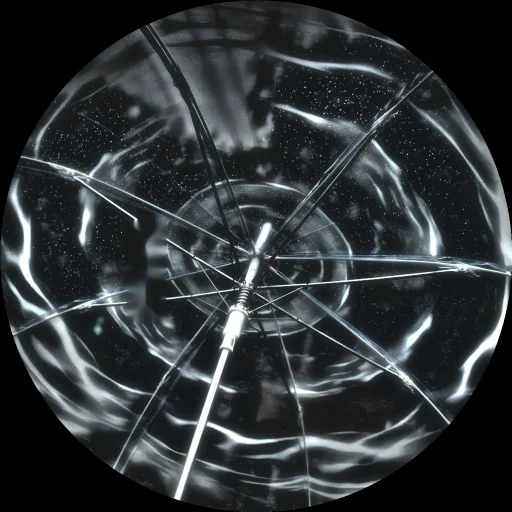
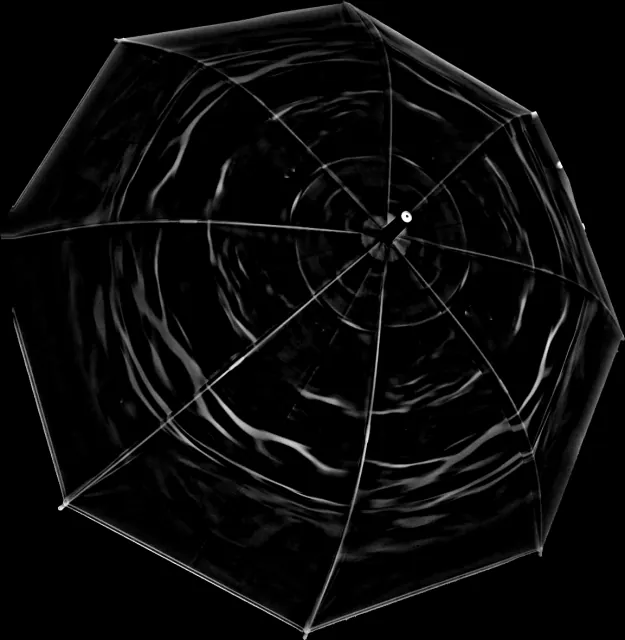
伞下烟火重做：海边黄昏底图、真实八角透明金鱼伞（抠图）、五颜六色的烟花和海面倒影
- 底图换成黄昏海边照片（裁掉截图的状态栏和看图工具栏）
- 伞是从透明金鱼伞照片里直接抠的八角伞形（不再是圆的），伞面的水纹会流动；6 条金鱼抠出来在伞面上游
- 人的背影从花火照片里抠出来（只要人，不带水印）
- 烟花：一开始没有 → 忽然一个 → 又一个 → 一下子很多 → 之后一直放，隔一阵来一波；牡丹、菊花、柳叶、环、彩色、分裂、闪光、爱心、棕榈，五颜六色，倒映在海面上
- 点天空放烟花；点伞起水波、金鱼游开、伞晃一下
- 去掉上一版用的花火照片素材

Claude-Session: https://claude.ai/code/session_01TSyEwZEwvoN7y1zL8fqiLP

diff --git a/lockfx-umb.js b/lockfx-umb.js
@@ -1,184 +1,218 @@
-// 小手机 · 动态锁屏「伞下烟火」：用的是你给的三张图——
-//   底图：花火大会的照片（原来那把纸伞换成透明的金鱼伞，往后撑着挡住头和上半身）；
-//   伞面：透明金鱼伞照片里的水纹、伞骨、伞柄；金鱼和挂件从照片里抠出来，单独会动。
-// 天上一开始是黑的，过几秒照片里的烟花一朵一朵炸开，最后满天烟花 + 地面瀑布焰火（就是原照片的样子）。
-// 动效：水纹上的光沿着漩涡一圈圈流过去（水在流）、金鱼在伞面上游、挂件小金鱼轻轻晃。
-// 互动：点天空 → 那里放一朵烟花；点伞面 → 水波荡开、金鱼吓得游开；点挂件 → 晃起来；歪手机挂件也跟着晃。
+// 小手机 · 动态锁屏「伞下烟火」：黄昏的海边，一个人背对着镜头，把透明金鱼伞往后撑在肩上（挡住头和上半身），看海上的烟花。
+// 素材都是照片抠出来的：海边黄昏（底图）、透明金鱼伞（伞面 + 6 条金鱼）、人的背影；烟花是五颜六色的粒子，倒映在海面上。
+// 节奏：一开始没有烟花 → 忽然放了一个 → 又一个 → 接着很多一起放，之后一直放，隔一阵来一波高潮。
+// 动效：光沿着伞面的水纹流动；金鱼在伞面上游；烟花亮的时候天、海、伞都被照亮。
+// 互动：点天空 → 那里放一朵；点伞 → 水波荡开、金鱼吓得游开、伞晃一下；歪手机伞也会跟着轻轻晃。
 const TAU = Math.PI * 2, rnd = (a, b) => a + Math.random() * (b - a), clamp = (x, a = 0, b = 1) => Math.max(a, Math.min(b, x)), lerp = (a, b, t) => a + (b - a) * t;
 const ss = (a, b, x) => { x = clamp((x - a) / (b - a)); return x * x * (3 - 2 * x); };
 const cnv = (w, h) => Object.assign(document.createElement('canvas'), { width: Math.max(1, Math.ceil(w)), height: Math.max(1, Math.ceil(h)) });
-const dot = (r, col) => { const c = cnv(r * 2, r * 2), x = c.getContext('2d'), g = x.createRadialGradient(r, r, 0, r, r, r); g.addColorStop(0, col); g.addColorStop(1, 'rgba(0,0,0,0)'); x.fillStyle = g; x.fillRect(0, 0, r * 2, r * 2); return c; };
+const rgba = (hex, a) => { const n = parseInt(hex.slice(1), 16); return `rgba(${n >> 16},${n >> 8 & 255},${n & 255},${a})`; };
+const dot = (r, col, core = 0) => { const c = cnv(r * 2, r * 2), x = c.getContext('2d'), g = x.createRadialGradient(r, r, 0, r, r, r); core && g.addColorStop(0, rgba('#ffffff', 1)); g.addColorStop(core, rgba(col, 1)); g.addColorStop(Math.min(1, core + .3), rgba(col, .45)); g.addColorStop(1, rgba(col, 0)); x.fillStyle = g; x.fillRect(0, 0, r * 2, r * 2); return c; };
 const angD = (a, b) => { let d = (b - a) % TAU; d > Math.PI && (d -= TAU); d < -Math.PI && (d += TAU); return d; };
 
-// 底图坐标（905×1580）：人站在 x=452；新伞的圆心和半径；烟花层从 y=0 开始，地面焰火层从 y=900 开始
-const BW = 905, BH = 1580, PX = 452, DISC = [453, 1060, 255], GY = 900, HZ = 930;
-// 伞面贴图（512，对应照片里半径 510 的圆）：漩涡中心、挂件挂的位置（伞面局部坐标，半径 1）
-const VORT = [.024, -.059], PIVOT = [-.402, -.071];
-// 金鱼贴图（都已转成鱼头朝右）：x, y, w, h；最后一个是挂件小金鱼
-const FISH = [[0, 0, 121, 63], [125, 0, 77, 33], [206, 0, 51, 39], [261, 0, 54, 29], [319, 0, 58, 43], [381, 0, 62, 34]], CHARM = [447, 0, 50, 36];
-// 照片里一朵朵能认出来的烟花（底图坐标 x, y, 半径）：蓝白色带放射线的、金色小菊花、大团的菊花
-// 已经去掉了蓝色烟雾、只留火星，拼在 hanabi_burst.webp 里：图集里的 x, y, 边长, 原来的半径
-const SITES = [[0, 0, 210, 150], [212, 0, 182, 130], [396, 0, 140, 100], [538, 0, 147, 105], [687, 0, 140, 100], [829, 0, 77, 55], [908, 0, 84, 60], [0, 212, 70, 50], [72, 212, 84, 60], [158, 212, 168, 120], [328, 212, 168, 120], [498, 212, 154, 110]];
-const FILES = { bg: 'hanabi_bg.webp', fw: 'hanabi_fw.webp', gnd: 'hanabi_gnd.webp', water: 'hanabi_water.webp', burst: 'hanabi_burst.webp', umb: 'hanabi_umb.webp', fish: 'hanabi_fish.webp' };
+// 底图（1000×1622）：地平线 y=1050；人（300×605）；伞（625×640，伞尖在 388,226）；金鱼贴图（鱼头朝右）
+const SEA = [1000, 1622, 1050], PER = [300, 605], UMB = [625, 640], TIP = [388, 226];
+const FISH = [[0, 0, 67, 36], [71, 0, 65, 24], [140, 0, 57, 42], [201, 0, 74, 40], [279, 0, 77, 41], [360, 0, 74, 30]];
+const FILES = { sea: 'hanabi_sea.webp', person: 'hanabi_person.webp', umb: 'hanabi_umb.webp', water: 'hanabi_water.webp', fish: 'hanabi_fish.webp' };
 const IMG = {}; let imgP;
 export const loadHanabi = () => imgP ||= Promise.all(Object.entries(FILES).map(([k, f]) => new Promise(res => { const i = new Image(); i.decoding = 'async'; const done = () => { IMG[k] = i; res(); }; i.onload = () => (i.decode ? i.decode().then(done, done) : done()); i.onerror = () => res(); i.src = new URL('./assets/' + f, import.meta.url).href; })));
 
-// 沿漩涡的光带（转起来就像水在往里流）
+// 烟花颜色（五颜六色）
+const COL = { red: '#ff3d5e', orange: '#ff9442', gold: '#ffd66b', lime: '#b4ff6b', green: '#4dffa0', cyan: '#5ff3ff', blue: '#6a8dff', purple: '#b776ff', pink: '#ff74d4', white: '#fff7ea' };
+const PAIRS = [['red', 'gold'], ['cyan', 'white'], ['purple', 'pink'], ['green', 'gold'], ['blue', 'cyan'], ['pink', 'white'], ['orange', 'gold'], ['lime', 'cyan'], ['red', 'white'], ['purple', 'blue'], ['gold', 'red'], ['white', 'cyan']];
+const KINDS = ['peony', 'peony', 'chrys', 'willow', 'ring', 'multi', 'split', 'glitter', 'peony', 'chrys', 'multi', 'heart', 'palm'];
+const CAP = 1600;
+
+// 沿伞面水纹流动的光带
 function spiral(sz) {
   const c = cnv(sz, sz), x = c.getContext('2d'), d = x.createImageData(sz, sz), h = sz / 2;
   for (let j = 0; j < sz; j++) for (let i = 0; i < sz; i++) {
-    const dx = (i - h) / h, dy = (j - h) / h, r = Math.hypot(dx, dy), a = Math.atan2(dy, dx);
-    const v = (.5 + .5 * Math.cos(2 * a + 7 * Math.log(r + .05))) ** 6 * ss(.03, .2, r) * (1 - ss(.9, 1.05, r)), o = (j * sz + i) * 4;
+    const dx = (i - h) / h, dy = (j - h) / h, r = Math.hypot(dx, dy), a = Math.atan2(dy, dx), v = (.5 + .5 * Math.cos(2 * a + 7 * Math.log(r + .05))) ** 5 * ss(.02, .15, r), o = (j * sz + i) * 4;
     d.data[o] = d.data[o + 1] = d.data[o + 2] = 255; d.data[o + 3] = v * 255;
   }
   x.putImageData(d, 0, 0); return c;
 }
 
 export const hanabi = {
-  ink: '#ffffff', shade: 'rgba(0,0,0,.5)', dpr: 2, fps: 60, interactive: true, hint: '点天空放烟花 · 点伞面拨水 · 点挂着的小金鱼',
+  ink: '#ffffff', shade: 'rgba(20,10,60,.45)', dpr: 2, fps: 60, interactive: true, hint: '点天空放烟花 · 点伞拨水',
   init(W, H, dpr) {
-    const small = W < 200, k = dpr, s = { W, H, k, small, t: 0, bursts: [], rockets: [], waves: [], G: 0, F: 0, flash: 0, tilt: 0, tiltT: 0, ready: 0, fade: 0 };
-    const sc = s.sc = Math.max(W / BW, H / BH); s.ox = clamp(W / 2 - PX * sc, W - BW * sc, 0); s.oy = (H - BH * sc) / 2;
-    s.dx = s.ox + DISC[0] * sc; s.dy = s.oy + DISC[1] * sc; s.dr = DISC[2] * sc;
-    const ts = Math.round(s.dr * 2 * k); s.tmp = cnv(Math.min(ts, 320), Math.min(ts, 320)); s.tx = s.tmp.getContext('2d');
-    s.spiral = spiral(small ? 96 : 192); s.glow = dot(48, 'rgba(255,170,90,1)'); s.blue = dot(48, 'rgba(190,215,255,1)');
-    s.fish = FISH.map((f, i) => { const a = i / FISH.length * TAU + rnd(-.3, .3), r = rnd(.35, .8); return { f, x: VORT[0] + Math.cos(a) * r, y: VORT[1] + Math.sin(a) * r, sp: rnd(.08, .16), z: i ? 1.75 : 1.35, ph: rnd(0, TAU), hd: a + Math.PI / 2, vx: 0, vy: 0, wf: rnd(.3, .7) }; });
-    s.ch = { a: .15, v: 0 };
-    s.t0 = small ? 0 : 3.5; s.sp = small ? 3 : 1; s.next = s.t0;
-    const go = () => { if (!s.dead) s.ready = 1; }; IMG.bg ? (go(), s.fade = 1) : loadHanabi().then(go);
+    const small = W < 200, k = dpr, s = { W, H, k, small, t: 0, P: [], rk: [], lights: [], smoke: [], waves: [], wob: 0, wv: 0, tilt: 0, tiltT: 0, ready: 0, fade: 0, plan: [] };
+    s.u = Math.min(W / 390, H / 844);
+    // 底图铺满（以中间为准）
+    const sc = s.sc = Math.max(W / SEA[0], H / SEA[1]); s.ox = (W - SEA[0] * sc) / 2; s.oy = (H - SEA[1] * sc) / 2; s.hz = s.oy + SEA[2] * sc;
+    // 人：底边超出屏幕一点
+    const ps = s.ps = Math.min(W * .56 / PER[0], H * .5 / PER[1]); s.pw = PER[0] * ps; s.ph = PER[1] * ps; s.px = W / 2 - s.pw * .46; s.py = H + 8 * s.u - s.ph;
+    // 伞：盖住头和肩膀，往后歪一点
+    const us = s.us = Math.min(W * .84 / UMB[0], H * .4 / UMB[1]); s.uw = UMB[0] * us; s.uh = UMB[1] * us;
+    s.ucx = W / 2 + s.uw * .02; s.ucy = s.py + s.ph * .26; s.urot = -.1; s.piv = [W / 2, s.py + s.ph * .42]; // 手握着的地方（晃的时候绕这里转）
+    // 粒子贴图
+    s.hd = Object.fromEntries(Object.entries(COL).map(([n, c]) => [n, dot(10, c, n == 'white' ? .2 : .06)])); s.gl = Object.fromEntries(Object.entries(COL).map(([n, c]) => [n, dot(48, c)]));
+    s.smk = dot(48, '#9aa6d6'); s.fglow = dot(32, '#ffa050');
+    // 拖尾层（半分辨率）：快散 / 慢散（柳叶、金色棕榈）
+    s.tr = [cnv(W * k * .5, H * k * .5), cnv(W * k * .5, H * k * .5)]; s.trx = s.tr.map(c => { const x = c.getContext('2d'); x.setTransform(k * .5, 0, 0, k * .5, 0, 0); return x; });
+    s.tmp = cnv(Math.min(Math.round(s.uw * k), 700), Math.min(Math.round(s.uh * k), 700)); s.tx = s.tmp.getContext('2d'); s.spiral = spiral(small ? 96 : 200);
+    s.fish = FISH.map((f, i) => { const a = i / FISH.length * TAU + rnd(-.3, .3), r = rnd(.3, .7); return { f, x: Math.cos(a) * r, y: Math.sin(a) * r, sp: rnd(.12, .22) * (Math.random() < .3 ? -1 : 1), ph: rnd(0, TAU), hd: 0, vx: 0, vy: 0, z: rnd(1.02, 1.18), wf: rnd(.3, .7) }; });
+    // 节目单：一开始安静 → 忽然一个 → 又一个 → 一下子很多 → 之后一直放
+    const t0 = s.t0 = small ? .2 : 2.4, sp = small ? .5 : 1;
+    s.plan = [[t0, 1], [t0 + 2.6 * sp, 1], [t0 + 4.6 * sp, 4], [t0 + 5.2 * sp, 2]]; s.next = t0 + 6.2 * sp; s.wave = t0 + 14;
+    const go = () => { if (!s.dead) s.ready = 1; }; IMG.sea ? (go(), s.fade = 1) : loadHanabi().then(go);
     if (!small) { s.ori = e => { if (e.gamma != null) s.tiltT = clamp(e.gamma / 40, -1, 1); }; addEventListener('deviceorientation', s.ori); }
     return s;
   },
   stop(s) { s.dead = 1; s.ori && removeEventListener('deviceorientation', s.ori); },
-  // 屏幕 ↔ 底图 ↔ 伞面局部
-  bg2s(s, x, y) { return [s.ox + x * s.sc, s.oy + y * s.sc]; },
-  s2bg(s, x, y) { return [(x - s.ox) / s.sc, (y - s.oy) / s.sc]; },
-  loc(s, x, y) { return [(x - s.dx) / s.dr, (y - s.dy) / s.dr]; },
-  chPos(s) { const [px, py] = PIVOT, L = .3, a = s.ch.a; return [s.dx + (px + Math.sin(a) * L) * s.dr, s.dy + (py + Math.cos(a) * L) * s.dr]; },
-  // 放一朵：先有一道升空的光，到了位置再炸开（炸出来的就是照片里那一片烟花）
-  launch(s, bx, by) {
-    const [l] = this.s2bg(s, 0, 0), [r] = this.s2bg(s, s.W, 0);
-    bx ??= rnd(Math.max(60, l + 40), Math.min(BW - 60, r - 40)); by ??= rnd(90, 700); by = clamp(by, 60, 760);
-    s.rockets.push({ x0: bx + rnd(-40, 40), bx, by, t: 0, d: rnd(.8, 1.15) * (s.small ? .6 : 1) });
+  // 伞的变换：伞贴图坐标 → 屏幕
+  umbM(s) { const a = s.urot + s.wob + s.tilt * .04, [px, py] = s.piv; return new DOMMatrix().translate(px, py).rotate(a * 180 / Math.PI).translate(-px, -py).translate(s.ucx, s.ucy).scale(s.us).translate(-UMB[0] / 2, -UMB[1] / 2); },
+  onUmb(s, x, y) { const p = this.umbM(s).inverse().transformPoint(new DOMPoint(x, y)), dx = (p.x - UMB[0] / 2) / (UMB[0] * .47), dy = (p.y - UMB[1] / 2) / (UMB[1] * .47); return dx * dx + dy * dy < 1 ? [p.x, p.y] : null; },
+  launch(s, x, y, kind) {
+    const W = s.W, H = s.H; x ??= rnd(W * .12, W * .88); y ??= rnd(H * .25, H * .44); s.nl = (s.nl || 0) + 1; y = clamp(y, H * .06, s.hz - H * .14);
+    s.rk.push({ x0: clamp(x + rnd(-W * .08, W * .08), 0, W), x, y, t: 0, d: rnd(1, 1.4) * (s.small ? .6 : 1), kind: kind || KINDS[Math.random() * KINDS.length | 0], c: PAIRS[Math.random() * PAIRS.length | 0] });
   },
-  burst(s, bx, by) {
-    const q = SITES[Math.random() * SITES.length | 0], gold = q[3] < 70, r = q[3] * (gold ? rnd(1.7, 2.3) : rnd(.95, 1.3)) * (s.small ? .8 : 1);
-    s.bursts.push({ q, bx, by, r, t: 0, gold }); s.bursts.length > 12 && s.bursts.shift();
-    s.flash = Math.min(1.4, s.flash + .6);
+  burst(s, x, y, kind, c) {
+    const sm = s.small, sz = s.W * rnd(.2, .3) * (sm ? .75 : 1) * (kind == 'willow' ? 1.15 : kind == 'heart' ? .85 : 1), P = s.P, add = o => P.length < CAP && P.push(o);
+    const n = Math.round((sm ? .35 : 1) * { peony: 130, chrys: 120, willow: 80, ring: 70, multi: 140, split: 54, glitter: 110, heart: 80, palm: 16 }[kind]);
+    const base = { x, y, t: 0, g: s.H * .06, dr: 1.7, c: c[0], c2: c[1], z: rnd(1.6, 2.3) * s.u };
+    const tilt = rnd(.35, 1), rot = rnd(0, TAU);
+    for (let i = 0; i < n; i++) {
+      let vx, vy;
+      if (kind == 'ring') { const a = i / n * TAU; vx = Math.cos(a); vy = Math.sin(a) * tilt; [vx, vy] = [vx * Math.cos(rot) - vy * Math.sin(rot), vx * Math.sin(rot) + vy * Math.cos(rot)]; }
+      else if (kind == 'heart') { const a = i / n * TAU; vx = 16 * Math.sin(a) ** 3 / 17; vy = -(13 * Math.cos(a) - 5 * Math.cos(2 * a) - 2 * Math.cos(3 * a) - Math.cos(4 * a)) / 17; }
+      else { const u = rnd(-1, 1), a = rnd(0, TAU), q = Math.sqrt(1 - u * u); vx = q * Math.cos(a); vy = q * Math.sin(a); const m = kind == 'palm' ? rnd(.8, 1) : rnd(.9, 1.02); vx *= m; vy *= m; }
+      const v = sz * (kind == 'willow' ? 2.1 : kind == 'heart' ? 1.5 : 1.75);
+      const o = { ...base, vx: vx * v, vy: vy * v, k: kind, d: rnd(1.5, 2.2) };
+      if (kind == 'multi') o.c = o.c2 = PAIRS[i % PAIRS.length][0];
+      if (kind == 'willow') Object.assign(o, { d: rnd(3, 4), dr: 2.3, g: s.H * .04, c: 'gold', c2: 'orange', slow: 1 });
+      if (kind == 'palm') Object.assign(o, { d: rnd(2.2, 2.8), dr: 1.2, c: 'gold', c2: 'white', slow: 1, z: o.z * 1.8 });
+      if (kind == 'chrys') Object.assign(o, { slow: 1, d: rnd(1.8, 2.4) });
+      if (kind == 'heart') Object.assign(o, { d: rnd(1.8, 2.2), dr: 1.5, g: s.H * .02, c: 'pink', c2: 'red' });
+      if (kind == 'glitter') Object.assign(o, { c: 'white', c2: c[0] });
+      add(o);
+    }
+    s.nb = (s.nb || 0) + 1;
+    s.lights.push({ x, y, c: c[0], I: 1, r: sz * 2.6 }); s.lights.length > 8 && s.lights.shift();
+    if (!sm) for (let i = 0; i < 2; i++) s.smoke.length < 24 && s.smoke.push({ x: x + rnd(-sz, sz) * .5, y: y + rnd(-sz, sz) * .4, r: sz * rnd(.6, 1), vx: rnd(-5, 5) * s.u, t: 0, d: rnd(8, 12) });
   },
-  // 节目单：安静几秒 → 一朵一朵 → 越来越密，整片天亮起来，地面焰火升起来 → 之后一直是满天烟花，偶尔再炸几朵
-  schedule(s, dt) {
-    const T = (s.t - s.t0) * s.sp; if (T < 0) return;
-    if (s.t >= s.next) { const fin = T > 11 && T < 19; this.launch(s); fin && Math.random() < .5 && this.launch(s); s.next = s.t + (fin ? rnd(.35, .7) : T < 11 ? rnd(1.1, 1.9) : rnd(1.3, 2.6)) / s.sp; }
-    s.G = ss(12, 19, T); s.F = ss(13, 17.5, T);
+  // 发射排队（按场景自己的时间走，测试快进也准）
+  queue(s, n, gap, kind) { for (let i = 0; i < n; i++) s.q.push([s.t + i * gap, kind && i % 3 == 2 ? kind : undefined]); },
+  schedule(s) {
+    s.q ||= [];
+    while (s.plan.length && s.t >= s.plan[0][0]) { const [, n] = s.plan.shift(); this.queue(s, n, .14); }
+    if (s.t >= s.next && !s.plan.length) {
+      const big = s.t >= s.wave; if (big) s.wave = s.t + rnd(12, 16);
+      this.queue(s, big ? (s.small ? 3 : 7) : Math.random() < .35 ? 2 : 1, big ? .16 : .26, big && 'willow');
+      s.next = s.t + (big ? 2.2 : rnd(.7, 1.5)) * (s.small ? .6 : 1);
+    }
+    for (let i = s.q.length - 1; i >= 0; i--) if (s.t >= s.q[i][0]) { this.launch(s, undefined, undefined, s.q[i][1]); s.q.splice(i, 1); }
   },
   input(s, type, x, y) {
-    if (type == 'down') {
-      s.ptr = { x0: x, y0: y, rt: performance.now(), moved: 0, mode: '' };
-      const [cx, cy] = this.chPos(s); if (Math.hypot(cx - x, cy - y) < Math.max(22, s.dr * .14)) { s.ptr.mode = 'ch'; s.ch.v += (x < cx ? 1 : -1) * rnd(2.5, 3.5); navigator.vibrate?.(8); return true; }
-      const [a, b] = this.loc(s, x, y); if (Math.hypot(a, b) < 1) { s.ptr.mode = 'umb'; return true; }
-      s.ptr.mode = 'sky'; return false;
-    }
+    if (type == 'down') { s.ptr = { x0: x, y0: y, rt: performance.now(), moved: 0, mode: this.onUmb(s, x, y) ? 'umb' : 'sky' }; return s.ptr.mode == 'umb'; }
     const p = s.ptr; if (!p) return false;
-    if (type == 'move') { p.moved = Math.max(p.moved, Math.hypot(x - p.x0, y - p.y0)); return p.mode != 'sky'; }
+    if (type == 'move') { p.moved = Math.max(p.moved, Math.hypot(x - p.x0, y - p.y0)); return p.mode == 'umb'; }
     s.ptr = null; if (type == 'cancel') return false;
     const quick = performance.now() - p.rt < 400 && p.moved < 12;
     if (p.mode == 'umb') { quick && this.ripple(s, x, y); return true; }
-    if (p.mode == 'sky' && quick) { const [bx, by] = this.s2bg(s, x, y); if (by < HZ) { this.launch(s, bx, by); if (s.t < s.t0) { s.t0 = s.t + .8; s.next = s.t + 1.6; } } return false; }
-    return p.mode == 'ch';
+    if (quick && y < s.hz - s.H * .03) { this.launch(s, x, y); if (s.plan.length) { const d = s.plan[0][0] - s.t - 1.2; s.plan.forEach(q => q[0] -= d); s.next -= d; } }
+    return false;
   },
   ripple(s, x, y) {
-    const [a, b] = this.loc(s, x, y); s.waves.push({ x: a, y: b, t: s.t }); s.waves.length > 4 && s.waves.shift(); navigator.vibrate?.(6);
-    for (const f of s.fish) { const dx = f.x - a, dy = f.y - b, d = Math.hypot(dx, dy); if (d < .6) { const m = (1 - d / .6) * 1.6 + .3; f.vx += dx / (d || 1) * m; f.vy += dy / (d || 1) * m; } }
-    const [px, py] = PIVOT; Math.hypot(px - a, py + .3 - b) < .5 && (s.ch.v += rnd(-1.5, 1.5));
+    const q = this.onUmb(s, x, y); if (!q) return; s.waves.push({ x: q[0], y: q[1], t: s.t }); s.waves.length > 4 && s.waves.shift(); navigator.vibrate?.(8);
+    s.wv += (x < s.piv[0] ? -1 : 1) * .55; s.kick = s.t; // 伞晃一下
+    const lx = (q[0] - UMB[0] / 2) / (UMB[0] * .4), ly = (q[1] - UMB[1] / 2 - 10) / (UMB[0] * .4 * .92);
+    for (const f of s.fish) { const dx = f.x - lx, dy = f.y - ly, d = Math.hypot(dx, dy); if (d < .6) { const m = (1 - d / .6) * 1.6 + .3; f.vx += dx / (d || 1) * m; f.vy += dy / (d || 1) * m; } }
   },
   draw(c, t, dt, W, H, s) {
-    s.t = t; const k = s.k, sc = s.sc;
-    c.fillStyle = '#04060f'; c.fillRect(0, 0, W, H); if (!s.ready) return;
-    s.fade = Math.min(1, s.fade + dt * 3); c.globalAlpha = s.fade;
-    this.schedule(s, dt); s.tilt = lerp(s.tilt, s.tiltT, 1 - Math.exp(-dt * 3)); s.flash *= Math.exp(-dt * 2.2);
-    const bw = BW * sc, bh = BH * sc, X = s.ox, Y = s.oy, G = s.G, F = s.F, L = clamp(G * .7 + F * .3 + s.flash * .35, 0, 1.3);
-    c.drawImage(IMG.bg, X, Y, bw, bh);
+    s.t = t;
+    c.fillStyle = '#1a2a6a'; c.fillRect(0, 0, W, H); if (!s.ready) return;
+    s.fade = Math.min(1, s.fade + dt * 3); const fa = s.fade;
+    this.schedule(s); s.tilt = lerp(s.tilt, s.tiltT, 1 - Math.exp(-dt * 3));
+    s.wv += (-s.wob * 26 - s.wv * 3.2) * dt; s.wob += s.wv * dt; // 伞晃完慢慢停
+    let L = 0; for (const l of s.lights) { l.I *= Math.exp(-dt * 2.4); L += l.I; } L = Math.min(1.2, L * .6);
+    for (let i = s.lights.length - 1; i >= 0; i--) s.lights[i].I < .02 && s.lights.splice(i, 1);
+    c.globalAlpha = fa; c.drawImage(IMG.sea, s.ox, s.oy, SEA[0] * s.sc, SEA[1] * s.sc);
+    // 天空和海面被烟花照亮
     c.globalCompositeOperation = 'lighter';
-    // 满天的烟花（照片里的）：慢慢亮起来，亮了以后火星一直往下落、闪
-    if (G > .002) {
-      const fh = IMG.fw.height * sc; c.globalAlpha = G * .9 * s.fade; c.drawImage(IMG.fw, X, Y, bw, fh);
-      const ph = (t * .55) % 1; c.globalAlpha = G * .32 * Math.sin(Math.PI * ph) * s.fade; c.drawImage(IMG.fw, X, Y + ph * 14 * sc, bw, fh);
-    }
-    // 地面的瀑布焰火：从地面往上长出来，一直往上喷、闪
-    if (F > .002) {
-      const gy = Y + GY * sc, gh = IMG.gnd.height * sc, top = lerp(Y + bh, gy, F);
-      c.save(); c.beginPath(); c.rect(0, top, W, H); c.clip();
-      c.globalAlpha = F * (.86 + .14 * Math.sin(t * 17) * Math.sin(t * 5.3)) * s.fade; c.drawImage(IMG.gnd, X, gy, bw, gh);
-      const ph = (t * 1.3) % 1; c.globalAlpha = F * .35 * Math.sin(Math.PI * ph) * s.fade; c.drawImage(IMG.gnd, X, gy - ph * 18 * sc, bw, gh);
-      c.restore();
-    }
-    // 升空的光
-    for (let i = s.rockets.length - 1; i >= 0; i--) {
-      const r = s.rockets[i]; r.t += dt; const u = clamp(r.t / r.d), e = 1 - (1 - u) ** 2.2, bx = lerp(r.x0, r.bx, e), by = lerp(HZ, r.by, e), [x, y] = this.bg2s(s, bx, by), [x1, y1] = this.bg2s(s, lerp(r.x0, r.bx, Math.max(0, e - .12)), lerp(HZ, r.by, Math.max(0, e - .12)));
-      const g = c.createLinearGradient(x1, y1, x, y); g.addColorStop(0, 'rgba(255,230,190,0)'); g.addColorStop(1, 'rgba(255,240,215,.85)'); c.globalAlpha = s.fade; c.strokeStyle = g; c.lineWidth = 1.6; c.beginPath(); c.moveTo(x1, y1); c.lineTo(x, y); c.stroke();
-      c.drawImage(s.blue, x - 4, y - 4, 8, 8);
-      if (u >= 1) { s.rockets.splice(i, 1); this.burst(s, r.bx, r.by); }
-    }
-    // 一朵朵炸开：从中心往外胀开、亮一下，然后慢慢往下落、暗下去
-    for (let i = s.bursts.length - 1; i >= 0; i--) {
-      const b = s.bursts[i]; b.t += dt; const a = b.t; if (a > 3) { s.bursts.splice(i, 1); continue; } const [qx, qy, qn] = b.q, img = IMG.burst;
-      const e = 1 - (1 - clamp(a / .55)) ** 3, z = (.12 + .88 * e) * (1 + a * .05), al = (a < .55 ? .4 + .6 * e : 1) * (1 - ss(1, 3, a)) * (a > 1.5 && Math.random() < .25 ? .7 : 1);
-      const [x, y] = this.bg2s(s, b.bx, b.by + a * a * 10), R = b.r * sc * z;
-      if (a < .55) for (const [f, q] of [[.86, .45], [.72, .22]]) { c.globalAlpha = al * q * s.fade; c.drawImage(img, qx, qy, qn, qn, x - R * f, y - R * f, R * f * 2, R * f * 2); } // 往外飞的拖影
-      c.globalAlpha = Math.min(1, al * 1.2) * s.fade; c.drawImage(img, qx, qy, qn, qn, x - R, y - R, R * 2, R * 2);
-      a < 1.4 && (c.globalAlpha = al * .55 * (1 - a / 1.4) * s.fade, c.drawImage(img, qx, qy, qn, qn, x - R, y - R, R * 2, R * 2)); // 刚炸开的时候更亮
-      if (a < .35) { const q = (1 - a / .35) ** 2, rr = b.r * sc * .5; c.globalAlpha = q * .7 * s.fade; c.drawImage(s.blue, x - rr, y - rr, rr * 2, rr * 2); }
-    }
-    c.globalCompositeOperation = 'source-over'; c.globalAlpha = s.fade;
-    this.umbrella(c, s, dt, t, L);
+    for (const l of s.lights) { c.globalAlpha = .28 * l.I * fa; c.drawImage(s.gl[l.c], l.x - l.r, l.y - l.r, l.r * 2, l.r * 2); const rr = l.r * 1.3; c.globalAlpha = .12 * l.I * fa; c.drawImage(s.gl[l.c], l.x - rr, s.hz + (s.hz - l.y) * .3 - rr * .3, rr * 2, rr * .6); }
+    for (let i = s.smoke.length - 1; i >= 0; i--) { const m = s.smoke[i]; m.t += dt; m.x += m.vx * dt; m.y -= 3 * dt; m.r += dt * 2; if (m.t > m.d) { s.smoke.splice(i, 1); continue; } c.globalAlpha = Math.sin(Math.PI * m.t / m.d) * (.04 + .1 * L) * fa; c.drawImage(s.smk, m.x - m.r, m.y - m.r, m.r * 2, m.r * 2); }
+    this.fire(c, dt, s, fa);
+    this.reflect(c, s, t, fa);
+    c.globalCompositeOperation = 'source-over'; c.globalAlpha = fa;
+    // 人
+    c.drawImage(IMG.person, s.px, s.py, s.pw, s.ph);
+    if (L > .02) { c.globalCompositeOperation = 'lighter'; c.globalAlpha = .25 * L * fa; c.drawImage(IMG.person, s.px, s.py, s.pw, s.ph); c.globalCompositeOperation = 'source-over'; c.globalAlpha = fa; }
+    this.umbrella(c, s, dt, t, L, fa);
     c.globalAlpha = 1;
   },
-  umbrella(c, s, dt, t, L) {
-    const { dx, dy, dr, k } = s, x0 = dx - dr, y0 = dy - dr, d2 = dr * 2, fa = s.fade;
-    c.save(); c.beginPath(); c.arc(dx, dy, dr, 0, TAU); c.clip();
-    c.globalCompositeOperation = 'multiply'; c.drawImage(IMG.umb, x0, y0, d2, d2);
-    c.globalCompositeOperation = 'screen'; c.globalAlpha = clamp(.82 + .25 * L) * fa; c.drawImage(IMG.water, x0, y0, d2, d2);
-    // 水在流：光沿着漩涡一圈圈流过去
-    const tx = s.tx, z = s.tmp.width; tx.globalCompositeOperation = 'copy'; tx.drawImage(IMG.water, 0, 0, z, z); tx.globalCompositeOperation = 'destination-in';
-    for (const [w, al] of [[.42, 1], [-.27, .6]]) { tx.save(); tx.translate((.5 + VORT[0] / 2) * z, (.5 + VORT[1] / 2) * z); tx.rotate(t * w); tx.globalAlpha = al; tx.drawImage(s.spiral, -z * .55, -z * .55, z * 1.1, z * 1.1); tx.restore(); }
-    tx.globalAlpha = 1; c.globalAlpha = (.55 + .3 * L) * fa; c.drawImage(s.tmp, x0, y0, d2, d2);
-    // 点出来的水波
-    for (let i = s.waves.length - 1; i >= 0; i--) { const w = s.waves[i], a = t - w.t; if (a > 1.8) { s.waves.splice(i, 1); continue; } const r = a * .7, al = (1 - a / 1.8) ** 1.5 * .7; c.strokeStyle = '#eaf4ff'; for (let j = 0; j < 3; j++) { const rj = r - j * .065; if (rj <= 0) continue; c.globalAlpha = al * (1 - j * .3) * fa; c.lineWidth = Math.max(.8, (3 - j) * dr * .006); c.beginPath(); c.arc(dx + w.x * dr, dy + w.y * dr, rj * dr, 0, TAU); c.stroke(); } }
+  fire(c, dt, s, fa) {
+    const [ta, tb] = s.trx, k = s.k, W = s.W, H = s.H;
+    const fade = (x, r) => { x.save(); x.setTransform(1, 0, 0, 1, 0, 0); x.globalCompositeOperation = 'destination-out'; x.fillStyle = `rgba(0,0,0,${1 - Math.pow(1 - r, dt * 60)})`; x.fillRect(0, 0, W * k, H * k); x.restore(); };
+    fade(ta, .17); fade(tb, .055); ta.globalCompositeOperation = tb.globalCompositeOperation = 'lighter';
+    c.globalCompositeOperation = 'lighter';
+    // 升空：一道带火星的光
+    for (let i = s.rk.length - 1; i >= 0; i--) {
+      const r = s.rk[i]; r.t += dt; const u = clamp(r.t / r.d), e = 1 - (1 - u) ** 2.3, x = lerp(r.x0, r.x, e) + Math.sin(r.t * 11) * .8, y = lerp(s.hz, r.y, e);
+      ta.globalAlpha = .9; ta.drawImage(s.hd.gold, x - 2.5, y - 2.5, 5, 5); Math.random() < .5 && (tb.globalAlpha = .5, tb.drawImage(s.hd.orange, x + rnd(-2, 2) - 1.5, y + rnd(0, 6) - 1.5, 3, 3));
+      c.globalAlpha = fa; c.drawImage(s.hd.white, x - 2.5, y - 2.5, 5, 5);
+      if (u >= 1) { s.rk.splice(i, 1); this.burst(s, r.x, r.y, r.kind, r.c); }
+    }
+    const P = s.P, hs = s.hs ||= []; hs.length = 0;
+    for (let i = P.length - 1; i >= 0; i--) {
+      const p = P[i]; p.t += dt; const u = p.t / p.d; if (u >= 1) { P.splice(i, 1); continue; }
+      const f = Math.exp(-p.dr * dt); p.vx *= f; p.vy = p.vy * f + p.g * dt; p.x += p.vx * dt; p.y += p.vy * dt;
+      if (p.k == 'split' && !p.sp && u > .45) { p.sp = 1; for (let j = 0; j < 4; j++) { const a = j / 4 * TAU + rnd(0, .4), v = s.W * .12; P.length < CAP && P.push({ ...p, vx: p.vx * .3 + Math.cos(a) * v, vy: p.vy * .3 + Math.sin(a) * v, t: 0, d: rnd(.7, 1), k: 'spk', c: p.c2, sp: 1 }); } P.splice(i, 1); continue; }
+      let a = (1 - u) ** 1.3; u < .05 && (a *= 1.6);
+      if ((p.k == 'glitter' || p.k == 'willow') && u > .5) a *= Math.random() < .5 ? 1.5 : .15;
+      if (u > .78 && p.k != 'willow') a *= Math.random() < .3 ? .2 : 1; // 快灭的时候闪一闪
+      const col = u > .55 ? p.c2 : p.c, z = p.z * (1 - u * .35), sp = s.hd[col], tr = p.slow ? tb : ta;
+      tr.globalAlpha = Math.min(1, a * .8); tr.drawImage(sp, p.x - z, p.y - z, z * 2, z * 2);
+      if (i % 2 == 0 && u < .7) { const g = z * 5.5; c.globalAlpha = a * .18 * fa; c.drawImage(s.gl[col], p.x - g, p.y - g, g * 2, g * 2); } // 柔光（加亮）
+      hs.push(p, z, a, col); // 火星本身用原色画（亮的天空上颜色不会被冲淡）
+    }
+    c.globalCompositeOperation = 'source-over'; c.globalAlpha = .92 * fa; c.drawImage(s.tr[1], 0, 0, W, H); c.drawImage(s.tr[0], 0, 0, W, H);
+    for (let i = 0; i < hs.length; i += 4) { const p = hs[i], z = hs[i + 1] * 1.25; c.globalAlpha = Math.min(1, hs[i + 2]) * fa; c.drawImage(s.hd[hs[i + 3]], p.x - z, p.y - z, z * 2, z * 2); }
+    c.globalCompositeOperation = 'lighter';
+  },
+  // 海面倒影：烟花倒过来、压扁、一条条晃
+  reflect(c, s, t, fa) {
+    const W = s.W, H = s.H, hz = s.hz, k = s.k * .5, bot = Math.min(H, hz + H * .2), step = Math.max(3, 4 * s.u);
+    for (let y = hz; y < bot; y += step) {
+      const d = (y - hz) / (bot - hz), sy = hz - (y - hz) / .42; if (sy < 0) break;
+      const off = Math.sin(y * .35 + t * 2.2) * (2 + d * 6) * s.u;
+      c.globalAlpha = .42 * (1 - d) ** 1.2 * fa;
+      for (const tr of s.tr) c.drawImage(tr, 0, sy * k, W * k, step / .42 * k, off, y, W, step);
+    }
+  },
+  umbrella(c, s, dt, t, L, fa) {
+    const M = this.umbM(s), [UW, UH] = UMB, base = c.getTransform();
+    c.save(); c.setTransform(base.multiply(M));
+    c.drawImage(IMG.umb, 0, 0, UW, UH);
+    if (L > .02) { c.globalCompositeOperation = 'lighter'; c.globalAlpha = .35 * L * fa; c.drawImage(IMG.umb, 0, 0, UW, UH); }
+    // 水在流：光沿着水纹一圈圈流过去
+    const tx = s.tx, zw = s.tmp.width, zh = s.tmp.height; tx.globalCompositeOperation = 'copy'; tx.globalAlpha = 1; tx.drawImage(IMG.water, 0, 0, zw, zh); tx.globalCompositeOperation = 'destination-in';
+    for (const [w, al] of [[.45, 1], [-.28, .55]]) { tx.save(); tx.translate(TIP[0] / UW * zw, TIP[1] / UH * zh); tx.rotate(t * w); tx.globalAlpha = al; const R = Math.max(zw, zh) * 1.25; tx.drawImage(s.spiral, -R, -R, R * 2, R * 2); tx.restore(); }
+    c.globalCompositeOperation = 'lighter'; c.globalAlpha = (.38 + .3 * L) * fa; c.drawImage(s.tmp, 0, 0, UW, UH);
+    // 点出来的水波（只画在伞上）
+    if (s.waves.length) {
+      tx.globalCompositeOperation = 'source-over'; tx.globalAlpha = 1; tx.clearRect(0, 0, zw, zh); tx.save(); tx.scale(zw / UW, zh / UH); tx.strokeStyle = '#eaf6ff';
+      for (let i = s.waves.length - 1; i >= 0; i--) { const w = s.waves[i], a = t - w.t; if (a > 1.8) { s.waves.splice(i, 1); continue; } const r = a * 200, al = (1 - a / 1.8) ** 1.5 * .8; for (let j = 0; j < 3; j++) { const rj = r - j * 22; if (rj <= 0) continue; tx.globalAlpha = al * (1 - j * .3); tx.lineWidth = 5 - j * 1.3; tx.beginPath(); tx.ellipse(w.x, w.y, rj, rj * .85, 0, 0, TAU); tx.stroke(); } }
+      tx.restore(); tx.globalAlpha = 1; tx.globalCompositeOperation = 'destination-in'; tx.drawImage(IMG.umb, 0, 0, zw, zh); c.globalAlpha = .7 * fa; c.drawImage(s.tmp, 0, 0, UW, UH);
+    }
     c.globalCompositeOperation = 'source-over'; c.globalAlpha = fa;
     this.swim(c, s, dt, t);
     c.restore();
-    // 伞边：一圈淡淡的蓝边和高光
-    c.globalCompositeOperation = 'screen'; c.globalAlpha = (.55 + .25 * L) * fa; c.strokeStyle = 'rgb(150,195,245)'; c.lineWidth = Math.max(1.2, dr * .012); c.beginPath(); c.arc(dx, dy, dr - c.lineWidth / 2, 0, TAU); c.stroke();
-    c.globalAlpha = (.35 + .3 * L) * fa; c.strokeStyle = 'rgb(235,245,255)'; c.lineWidth = Math.max(1, dr * .008); c.beginPath(); c.arc(dx, dy, dr * .985, Math.PI * 1.05, Math.PI * 1.55); c.stroke();
-    c.globalCompositeOperation = 'source-over'; c.globalAlpha = fa;
-    this.charm(c, s, dt, t);
   },
-  // 金鱼：跟着水流顺时针游，尾巴摆（把贴图切成几条竖条，越往尾巴摆得越多）
+  // 金鱼：在伞面上绕着游，尾巴摆（贴图切成竖条，越往尾巴摆得越多）
   swim(c, s, dt, t) {
-    const { dx, dy, dr } = s, img = IMG.fish, u = dr / 510;
+    const [UW, UH] = UMB, img = IMG.fish, cx = UW / 2, cy = UH / 2 + 10, R = UW * .4;
     for (const f of s.fish) {
-      const ox = f.x - VORT[0], oy = f.y - VORT[1], r = Math.hypot(ox, oy) || .01, tx = -oy / r, ty = ox / r, flow = (.12 + .2 * (1 - r)) * r;
-      let vx = tx * (f.sp + flow) + f.vx, vy = ty * (f.sp + flow) + f.vy;
-      vx += Math.sin(t * f.wf + f.ph) * .04 * -ty; vy += Math.sin(t * f.wf + f.ph) * .04 * tx;
-      if (r > .8) { vx -= ox / r * (r - .8) * 3; vy -= oy / r * (r - .8) * 3; } if (r < .28) { vx += ox / r * (.28 - r) * 3; vy += oy / r * (.28 - r) * 3; }
+      const r = Math.hypot(f.x, f.y) || .01, dir = Math.sign(f.sp), tx = -f.y / r * dir, ty = f.x / r * dir, v = Math.abs(f.sp);
+      let vx = tx * v + f.vx, vy = ty * v + f.vy; vx += Math.sin(t * f.wf + f.ph) * .05 * -ty; vy += Math.sin(t * f.wf + f.ph) * .05 * tx;
+      if (r > .78) { vx -= f.x / r * (r - .78) * 3; vy -= f.y / r * (r - .78) * 3; } if (r < .22) { vx += f.x / r * (.22 - r) * 3; vy += f.y / r * (.22 - r) * 3; }
       f.x += vx * dt; f.y += vy * dt; const ex = Math.exp(-dt * 1.8); f.vx *= ex; f.vy *= ex;
       const sp = Math.hypot(vx, vy); f.hd += angD(f.hd, Math.atan2(vy, vx)) * (1 - Math.exp(-dt * 4)); f.ph += dt * (3.5 + sp * 12);
-      const [sx, sy, sw, sh] = f.f, w = sw * u * f.z, h = sh * u * f.z;
-      c.save(); c.translate(dx + f.x * dr, dy + f.y * dr); c.rotate(f.hd);
-      c.globalCompositeOperation = 'lighter'; c.globalAlpha = .35 * s.fade; c.drawImage(s.glow, -w * .8, -h * 1.3, w * 1.6, h * 2.6); c.globalCompositeOperation = 'source-over'; c.globalAlpha = s.fade;
-      const N = 6, st = sw / N; for (let i = 0; i < N; i++) { const q = 1 - i / N, off = Math.sin(f.ph - i * .9) * h * .16 * q * q; c.drawImage(img, sx + i * st, sy, st + .6, sh, -w / 2 + i * w / N, -h / 2 + off, w / N + .6, h); }
+      const [sx, sy, sw, sh] = f.f, w = sw * f.z, h = sh * f.z;
+      c.save(); c.translate(cx + f.x * R, cy + f.y * R * .92); c.rotate(f.hd);
+      c.globalCompositeOperation = 'lighter'; c.globalAlpha = .3 * s.fade; c.drawImage(s.fglow, -w * .8, -h * 1.3, w * 1.6, h * 2.6); c.globalCompositeOperation = 'source-over'; c.globalAlpha = s.fade;
+      const N = 6, st = sw / N; for (let i = 0; i < N; i++) { const q = 1 - i / N, off = Math.sin(f.ph - i * .9) * h * .14 * q * q; c.drawImage(img, sx + i * st, sy, st + .6, sh, -w / 2 + i * w / N, -h / 2 + off, w / N + .6, h); }
       c.restore();
     }
-  },
-  // 挂件：挂在伞骨上的小金鱼（绳子 + 三颗珠子），会晃
-  charm(c, s, dt, t) {
-    const h = s.ch, g = 9, L = .3; h.v += (-g / L * Math.sin(h.a) - s.tilt * 6 * Math.cos(h.a)) * dt; h.v *= Math.exp(-dt * .9); h.v += Math.sin(t * .7) * .25 * dt; h.a += h.v * dt;
-    const { dx, dy, dr } = s, px = dx + PIVOT[0] * dr, py = dy + PIVOT[1] * dr, [ex, ey] = this.chPos(s), lw = Math.max(.7, dr * .004);
-    c.strokeStyle = 'rgba(235,242,255,.8)'; c.lineWidth = lw; c.beginPath(); c.moveTo(px, py); c.lineTo(ex, ey); c.stroke();
-    c.fillStyle = 'rgba(240,246,255,.92)'; for (const q of [.62, .74, .86]) { c.beginPath(); c.arc(lerp(px, ex, q), lerp(py, ey, q), Math.max(1.2, dr * .014), 0, TAU); c.fill(); }
-    const [sx, sy, sw, sh] = CHARM, u = dr / 510 * 1.7, w = sw * u, hh = sh * u;
-    c.save(); c.translate(ex, ey); c.rotate(-h.a); c.globalCompositeOperation = 'lighter'; c.globalAlpha = .2 * s.fade; c.drawImage(s.glow, -hh, 0, hh * 2, w * 1.2); c.globalCompositeOperation = 'source-over'; c.globalAlpha = s.fade;
-    c.rotate(-Math.PI / 2); c.drawImage(IMG.fish, sx, sy, sw, sh, -w, -hh / 2, w, hh); c.restore();
   },
 };
